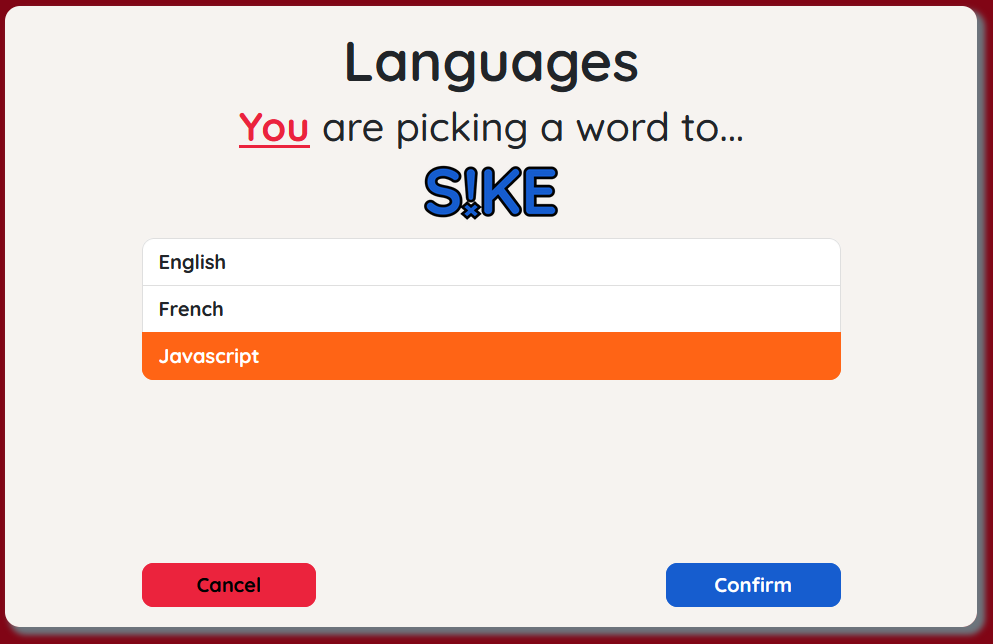
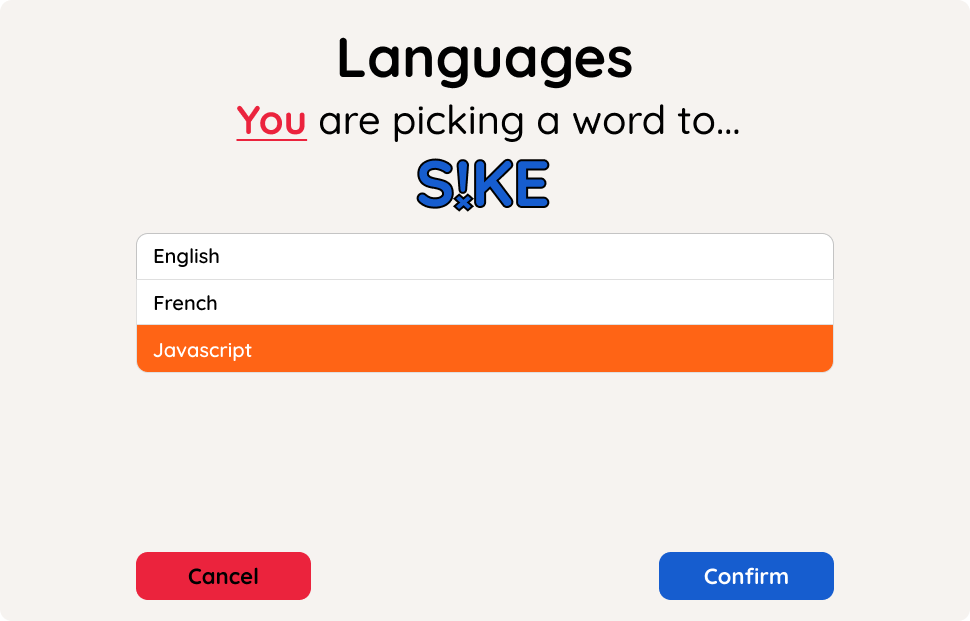
Remove image borders and added bootstrap borders

Changed region(s): [[0.0, 0.0, 1.0, 1.0], [0.1237, 0.3977, 0.866, 0.6119], [0.2474, 0.0612, 0.7423, 0.3366]]

diff --git a/client/src/views/HowToPlay.vue b/client/src/views/HowToPlay.vue
@@ -3,11 +3,11 @@
     <div v-for="section in $tm('howToPlay')">
       <h1 class="font-fancy text-burgundy display-2 mb-3" :id="section.key">{{ section.header }}</h1>
       <p class="fw-normal">{{ section.body }}</p>
-      <img class="w-93 w-md-50" v-if="imgs[section.key]" :src="imgs[section.key]" :alt="section.alt">
+      <img class="border border-4 border-burgundy rounded w-93 w-md-50 mb-4" v-if="imgs[section.key]" :src="imgs[section.key]" :alt="section.alt">
       <div v-for="child in section.children">
         <h3 class="fw-bold display-6" :id="child.key">{{ child.header }}</h3>
         <p class="fw-normal">{{ child.body }}</p>
-        <img class="w-93 w-md-50" v-if="imgs[child.key]" :src="imgs[child.key]" :alt="child.alt">
+        <img class="border border-4 border-burgundy rounded w-93 w-md-50 mb-4" v-if="imgs[child.key]" :src="imgs[child.key]" :alt="child.alt">
       </div>
     </div>
   </div>
